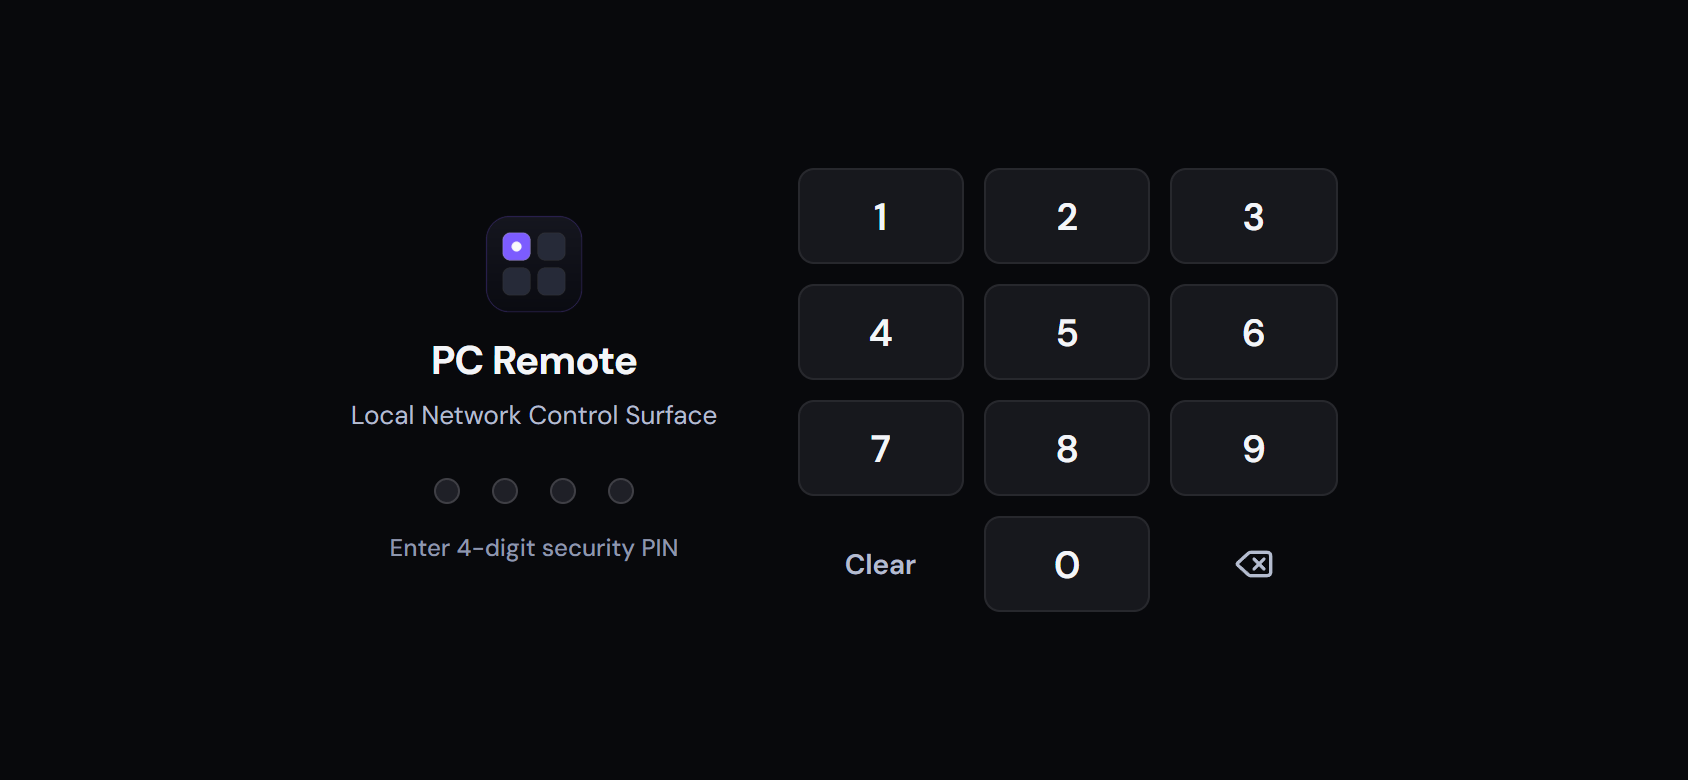
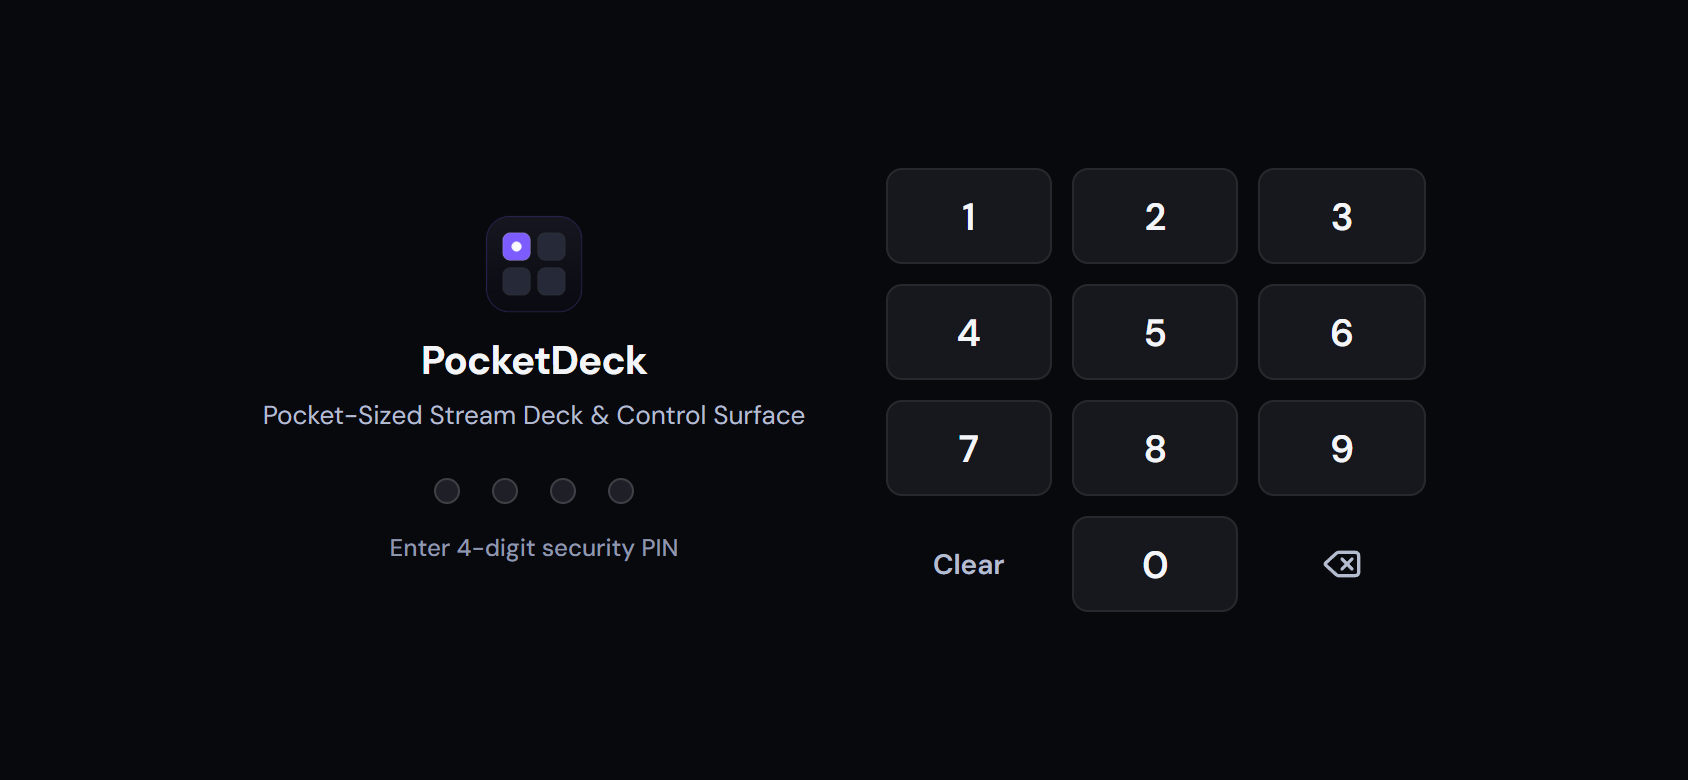
feat: rename project to PocketDeck

diff --git a/web/index.html b/web/index.html
@@ -6,8 +6,8 @@
   <meta name="theme-color" content="#08090C">
   <meta name="apple-mobile-web-app-capable" content="yes">
   <meta name="apple-mobile-web-app-status-bar-style" content="black-translucent">
-  <meta name="apple-mobile-web-app-title" content="PC Remote">
-  <title>PC Remote</title>
+  <meta name="apple-mobile-web-app-title" content="PocketDeck">
+  <title>PocketDeck</title>
   <link rel="preload" href="/assets/fonts/DMSansVariable.woff2" as="font" type="font/woff2" crossorigin>
   <link rel="icon" type="image/svg+xml" href="/assets/logo/favicon.svg">
   <link rel="apple-touch-icon" href="/assets/logo/apple-touch-icon.png">
@@ -28,9 +28,9 @@
        ==================================================================== -->
   <main id="auth-screen">
     <div class="auth-hero">
-      <img class="auth-logo-mark" src="/assets/logo/icon-192.png" alt="PC Remote Logo">
-      <h1 class="auth-title">PC Remote</h1>
-      <p class="auth-subtitle">Local Network Control Surface</p>
+      <img class="auth-logo-mark" src="/assets/logo/icon-192.png" alt="PocketDeck Logo">
+      <h1 class="auth-title">PocketDeck</h1>
+      <p class="auth-subtitle">Pocket-Sized Stream Deck & Control Surface</p>
       <div id="pin-dots" class="pin-dots" aria-label="PIN progress"></div>
       <div id="pin-status-msg" class="pin-status-msg">Enter 4-digit security PIN</div>
     </div>

diff --git a/web/js/main.js b/web/js/main.js
@@ -107,6 +107,7 @@ export function showApp() {
 export function logout() {
   state.token = null;
   state.editMode = false;
+  localStorage.removeItem('pocketdeck_token');
   localStorage.removeItem('pc_remote_token');
   stopPolling();
   closeSheet();
@@ -287,7 +288,7 @@ async function boot() {
 
   // Emil Break-UI stress test flag (?stress=1)
   if (params.has('stress')) {
-    localStorage.setItem('pc_remote_token', 'stress-token');
+    localStorage.setItem('pocketdeck_token', 'stress-token');
     enableBreakUiStressTest();
     const normTab = (targetTab === 'controls' || targetTab === 'extras') ? 'extras' : targetTab;
     if (normTab) switchTab(normTab);

diff --git a/web/js/screens/login.js b/web/js/screens/login.js
@@ -57,6 +57,7 @@ export function initLoginScreen(onLoginSuccess) {
       state.token = res.token;
       state.defaultPin = Boolean(res.default_pin);
       if (res.hostname) state.hostname = res.hostname;
+      localStorage.setItem('pocketdeck_token', res.token);
       localStorage.setItem('pc_remote_token', res.token);
       pinBuffer = '';
       renderDots(false);

diff --git a/web/js/state.js b/web/js/state.js
@@ -1,5 +1,5 @@
 export const state = {
-  token: localStorage.getItem('pc_remote_token') || null,
+  token: localStorage.getItem('pocketdeck_token') || localStorage.getItem('pc_remote_token') || null,
   hostname: 'My PC',
   defaultPin: false,
   connection: 'connected', // 'connected' | 'reconnecting' | 'offline'

diff --git a/web/sw.js b/web/sw.js
@@ -1,4 +1,4 @@
-const CACHE_NAME = 'pc-remote-v4';
+const CACHE_NAME = 'pocketdeck-v1';
 const SHELL_ASSETS = [
   '/',
   '/index.html',

diff --git a/server/config.py b/server/config.py
@@ -37,7 +37,7 @@ def load_config() -> AppConfig:
         example_path = os.path.join(os.path.dirname(os.path.dirname(__file__)), "config.example.yaml")
         if os.path.exists(example_path):
             shutil.copyfile(example_path, CONFIG_PATH)
-            print(f"[PC Remote] Initialized config.yaml from config.example.yaml")
+            print(f"[PocketDeck] Initialized config.yaml from config.example.yaml")
         else:
             raise FileNotFoundError(f"Configuration file not found: {CONFIG_PATH}")
     

diff --git a/server/main.py b/server/main.py
@@ -6,7 +6,7 @@ import os
 from server.routers.api import router as api_router
 from server.config import settings
 
-app = FastAPI(title="PC Remote Control API")
+app = FastAPI(title="PocketDeck API")
 
 # Allow CORS for development if needed
 app.add_middleware(

diff --git a/README.md b/README.md
@@ -1,4 +1,4 @@
-# PC Remote 🎮📱
+# PocketDeck 🎛📱
 
 [![License: MIT](https://img.shields.io/badge/License-MIT-blue.svg)](LICENSE)
 [![Platform: Windows 10 / 11](https://img.shields.io/badge/Platform-Windows%2010%20%7C%2011-0078D6.svg?logo=windows)](https://www.microsoft.com/windows)
@@ -7,7 +7,7 @@
 [![PWA Ready](https://img.shields.io/badge/PWA-Ready-5A0FC8.svg?logo=pwa&logoColor=white)](https://developer.mozilla.org/en-US/docs/Web/Progressive_web_apps)
 
 > **Low-latency, local-network hardware companion surface served directly from your Windows PC.**  
-> Turn your smartphone or tablet into a dedicated **Stream Deck, Per-Application Audio Mixer, Media Controller, and OBS Studio Cockpit** — used either one-handed in **Portrait** mode or docked next to your monitor in **Landscape Cockpit** mode. Zero cloud subscriptions, zero external telemetry, zero native app store installs.
+> Turn your smartphone or tablet into a dedicated, pocket-sized **Stream Deck, Per-Application Audio Mixer, Media Controller, and OBS Studio Cockpit** — used either one-handed in **Portrait** mode or docked next to your monitor in **Landscape Cockpit** mode. Zero cloud subscriptions, zero external telemetry, zero native app store installs.
 
 ---
 
@@ -17,27 +17,27 @@
 
 ### 1. Main Deck & Live Hardware Telemetry
 *Real-time CPU/RAM/GPU telemetry dials, Discord Quick Mute & Deafen toggles, Master volume control, and high-frequency application launch keycaps with native Windows iconography.*
-![PC Remote Deck Landscape](docs/screenshots/01-deck-landscape.png)
+![PocketDeck Landscape](docs/screenshots/01-deck-landscape.png)
 
 ### 2. Deck Editor (CRUD & Drag-and-Drop Reordering)
 *Live editing surface to reorder keys via touch drag-and-drop, delete presets with undo toast protection, search installed Windows Start Menu applications (`Get-StartApps`), and upload custom PNG keycaps.*
-![PC Remote Deck Editor Landscape](docs/screenshots/02-editor-landscape.png)
+![PocketDeck Editor Landscape](docs/screenshots/02-editor-landscape.png)
 
 ### 3. Per-App Windows Audio Mixer
 *Hardware-grade audio control surface powered by Windows CoreAudio (`pycaw`). Control individual volume levels for Spotify, games, Discord, and browsers with live process iconography and instant mute switches.*
-![PC Remote Audio Mixer Landscape](docs/screenshots/03-mixer-landscape.png)
+![PocketDeck Audio Mixer Landscape](docs/screenshots/03-mixer-landscape.png)
 
 ### 4. Windows Media Transport & Productivity Surface
 *Windows Global System Media Transport Controls (GSMTC) integration with real-time album artwork and track scrub bar. Includes remote clipboard synchronization, quick productivity keystrokes, and press-and-hold power controls.*
-![PC Remote Controls Landscape](docs/screenshots/04-controls-landscape.png)
+![PocketDeck Controls Landscape](docs/screenshots/04-controls-landscape.png)
 
 ### 5. OBS Studio Cockpit
 *Direct OBS WebSocket v5 integration with zero manual token configuration. Control streaming, recording, and replay buffers; switch scenes; toggle source visibility; and adjust individual audio faders with live dB indicators.*
-![PC Remote OBS Cockpit Landscape](docs/screenshots/05-obs-landscape.png)
+![PocketDeck OBS Cockpit Landscape](docs/screenshots/05-obs-landscape.png)
 
 ### 6. Security & Authentication
 *Local network protection with 4-digit PIN authentication (SHA-256 hashed) and Bearer session tokens.*
-![PC Remote Security Login](docs/screenshots/06-login-landscape.png)
+![PocketDeck Security Login](docs/screenshots/06-login-landscape.png)
 
 ---
 
@@ -90,8 +90,8 @@
 #### Method 1: One-Click Setup (Recommended)
 1. Clone or download this repository:
    ```bash
-   git clone https://github.com/MuhDev/pc-remote.git
-   cd pc-remote
+   git clone https://github.com/MuhDev/pocketdeck.git
+   cd pocketdeck
    ```
 2. Double-click **`setup.bat`**.  
    *This automatically creates the Python virtual environment (`venv`), installs all required dependencies, and sets up your default `config.yaml`.*
@@ -183,13 +183,13 @@ Paste the output into `pin_hash` inside `config.yaml` and restart the server.
 ### OBS Studio Setup
 1. In OBS Studio, navigate to **Tools** $\to$ **WebSocket Server Settings**.
 2. Check **Enable WebSocket server** (default port: `4455`).
-3. PC Remote will automatically detect the port and password from your local OBS installation files without manual entry!
+3. PocketDeck will automatically detect the port and password from your local OBS installation files without manual entry!
 
 ---
 
 ## 🛠 Architecture & Contributing
 
-PC Remote is built with a zero-compilation philosophy:
+PocketDeck is built with a zero-compilation philosophy:
 - **Backend:** Python 3.10+ with FastAPI, Uvicorn, and native Windows bindings (`pycaw`, `comtypes`, `pynput`, `psutil`).
 - **COM Apartment Safety:** Windows CoreAudio calls execute in a dedicated STA background worker (`AudioCOMThread`) to prevent COM concurrency violations.
 - **Frontend:** Pure Vanilla JavaScript (ES modules) and native CSS design tokens. No Node.js build step or bundler needed.

diff --git a/CONTRIBUTING.md b/CONTRIBUTING.md
@@ -1,6 +1,6 @@
-# Contributing to PC Remote 🤝
+# Contributing to PocketDeck 🤝
 
-First off, thank you for considering contributing to **PC Remote**! It is community contributions and open-source collaboration that make projects like this great.
+First off, thank you for considering contributing to **PocketDeck**! It is community contributions and open-source collaboration that make projects like this great.
 
 ---
 
@@ -13,7 +13,7 @@ Please be respectful, constructive, and considerate when interacting with contri
 ## 🛠 How to Contribute
 
 ### 1. Reporting Bugs
-- Search existing [Issues](https://github.com/MuhDev/pc-remote/issues) to see if the problem has already been reported.
+- Search existing [Issues](https://github.com/MuhDev/pocketdeck/issues) to see if the problem has already been reported.
 - If not, open a new issue using the **Bug Report** template.
 - Include your Windows version (e.g. Windows 11 23H2), Python version, mobile browser details, and terminal logs.
 
@@ -25,8 +25,8 @@ Please be respectful, constructive, and considerate when interacting with contri
 ### 3. Submitting Pull Requests (PRs)
 1. Fork the repository and clone your fork locally:
    ```bash
-   git clone https://github.com/YOUR_USERNAME/pc-remote.git
-   cd pc-remote
+   git clone https://github.com/YOUR_USERNAME/pocketdeck.git
+   cd pocketdeck
    ```
 2. Create a new topic branch:
    ```bash
@@ -74,4 +74,4 @@ Before opening a PR:
 
 ---
 
-Thank you for helping make PC Remote even better! 🚀
+Thank you for helping make PocketDeck even better! 🚀

diff --git a/DESIGN.md b/DESIGN.md
@@ -1,7 +1,7 @@
-# DESIGN.md — PC Remote Design System
+# DESIGN.md — PocketDeck Design System
 
 ## 1. Aesthetic Direction (`true-black-flat` Hardware Control Surface)
-PC Remote follows the **Operate** mode discipline (`impeccable`) combined with **Taste-Skill's `true-black-flat`** app-screen architecture and **Emil Kowalski's** motion and mobile-native engineering rules:
+PocketDeck follows the **Operate** mode discipline (`impeccable`) combined with **Taste-Skill's `true-black-flat`** app-screen architecture and **Emil Kowalski's** motion and mobile-native engineering rules:
 - **Flat Tonal Hierarchy:** Elevation is expressed through solid lightness steps (`--bg-base` → `--surface-1` → `--surface-2` → `--surface-3`) and crisp `1px` hairlines (`rgba(255, 255, 255, 0.07)`).
 - **Zero Decorative Gradients or Neon Glows:** Cards, keys, and mixer rows never use radial color washes, multi-layer drop shadows, or zero-offset colored neon glows.
 - **Color Spent on State & Real Icons (~3–5% Budget):** The interface chrome stays quiet so real extracted 256×256 Windows application icons and active state indicators (`#7C5CFF` electric violet and semantic status dots) read immediately at a glance.

diff --git a/DEVELOPMENT.md b/DEVELOPMENT.md
@@ -1,12 +1,12 @@
-# PC Remote — Developer & Architecture Guide 🛠
+# PocketDeck — Developer & Architecture Guide 🛠
 
-This guide is designed for developers who want to understand the inner workings of **PC Remote**, extend its capabilities, or add new hardware/software integrations.
+This guide is designed for developers who want to understand the inner workings of **PocketDeck**, extend its capabilities, or add new hardware/software integrations.
 
 ---
 
 ## 🏛 System Architecture Overview
 
-PC Remote combines a **low-latency Python FastAPI backend** interfacing directly with low-level Windows APIs, and a **zero-build, reactive Vanilla JavaScript frontend** delivered as a Progressive Web App (PWA).
+PocketDeck combines a **low-latency Python FastAPI backend** interfacing directly with low-level Windows APIs, and a **zero-build, reactive Vanilla JavaScript frontend** delivered as a Progressive Web App (PWA).
 
 ```mermaid
 flowchart TD

diff --git a/PRODUCT.md b/PRODUCT.md
@@ -1,7 +1,7 @@
-# PRODUCT.md — PC Remote
+# PRODUCT.md — PocketDeck
 
 ## Overview
-**PC Remote** is a low-latency, local-network hardware companion web application served directly from a Windows PC over FastAPI. It turns a user's smartphone into a dedicated **Stream Deck, Per-App Audio Mixer, and System Controller** — used either one-handed in **Portrait** mode or propped on a desk next to the monitor in **Landscape Cockpit** mode.
+**PocketDeck** is a low-latency, local-network hardware companion web application served directly from a Windows PC over FastAPI. It turns a user's smartphone into a dedicated **Stream Deck, Per-App Audio Mixer, and OBS Cockpit** — used either one-handed in **Portrait** mode or propped on a desk next to the monitor in **Landscape Cockpit** mode.
 
 ## Surface Mode
 - **Primary Mode:** `Operate` (precision instrument / hardware control surface)
